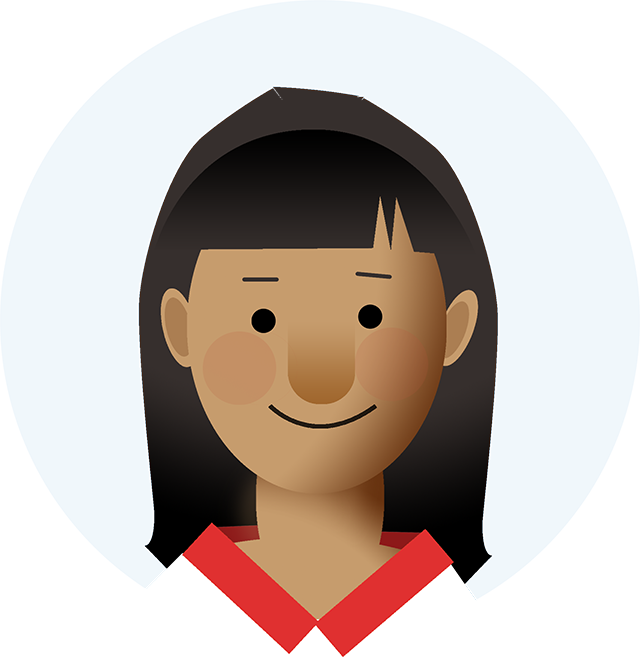
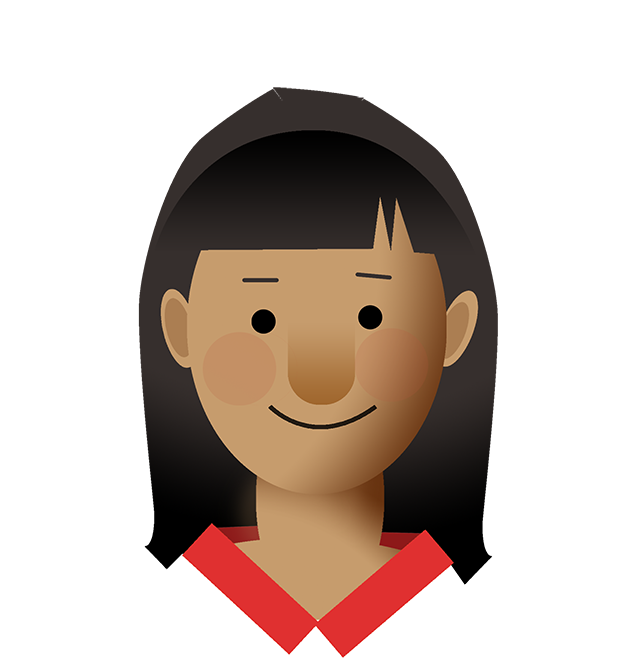
Starssssss

diff --git a/source/stylesheets/sections/_about.sass b/source/stylesheets/sections/_about.sass
@@ -13,9 +13,14 @@
   > .person-icon
     margin: 0 auto $content-spacing * 2
     text-align: center
-    +image-background("stars.png")
-    -webkit-animation: alpha-and-omega 19000s infinite alternate linear
+    background-color: #F0F6FB
+    +image-background("stars2.png")
+    -webkit-animation: alpha-and-omega 20000s infinite alternate linear
     background-size: 690px 418px
+    width: 320px
+    height: 320px
+    border-radius: 160px
+
 
     > img
       max-width: 100%
